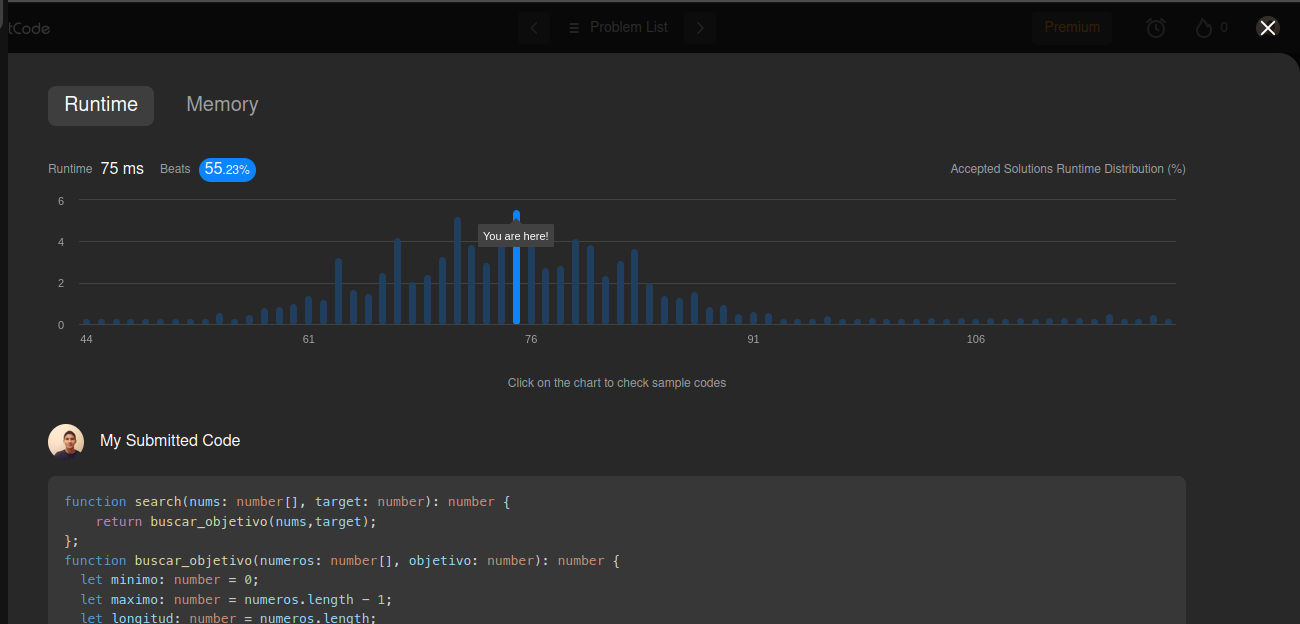
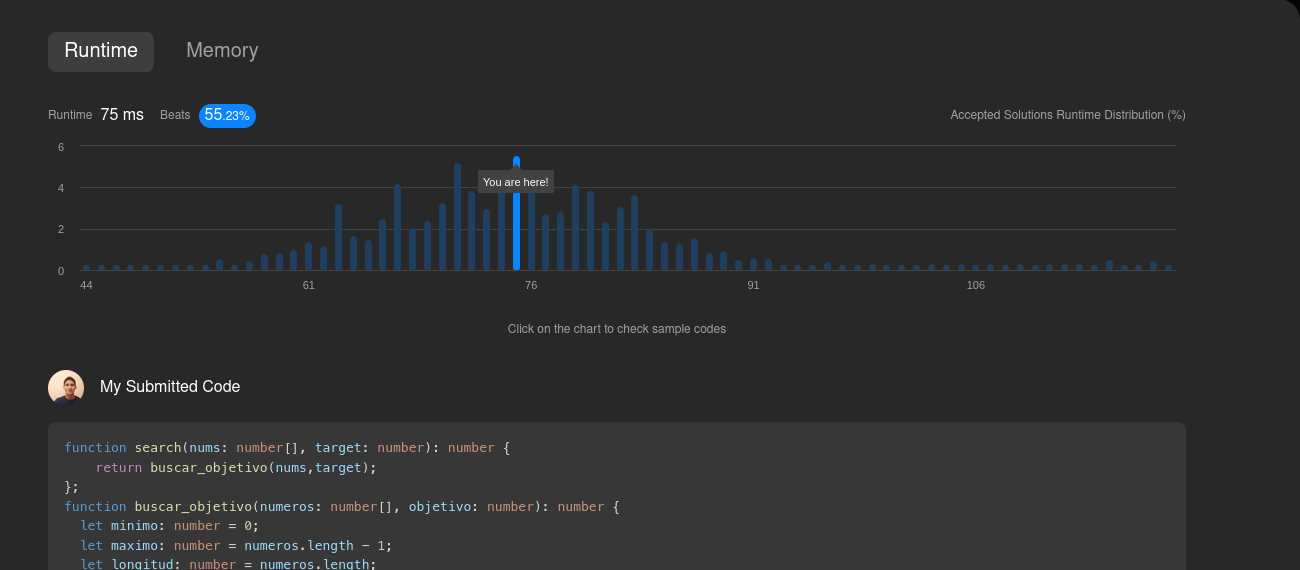
agregando la imagen de los resultados

diff --git a/src/busqueda_binaria/easy/challenge_1/juego_adivinanza/README.md b/src/busqueda_binaria/easy/challenge_1/juego_adivinanza/README.md
@@ -35,3 +35,6 @@ let objetivo: number = 2;
 - _**objetivo** `<` **10^4** `|----|` **[objetivo : 10^4]**_
 - _Todos los enteros de numeros son únicos._
 - _Números se ordena en orden ascendente_
+
+#### _Resultado:_
+![captura de los test del desafio](https://github.com/jean-carlos-19/leetcode/blob/master/captura/challengue-1-02.png)
